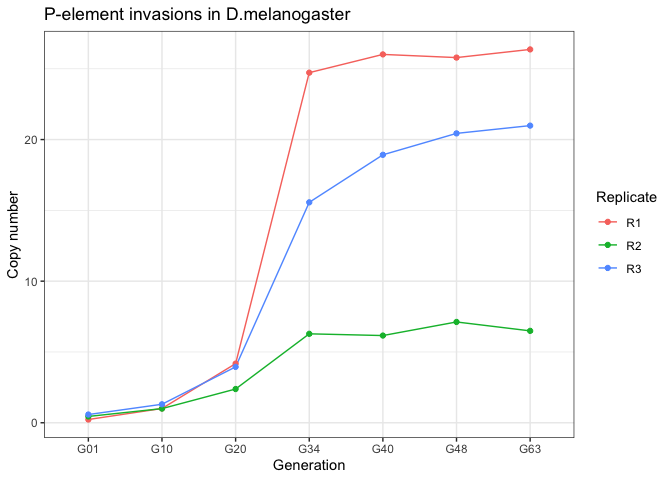
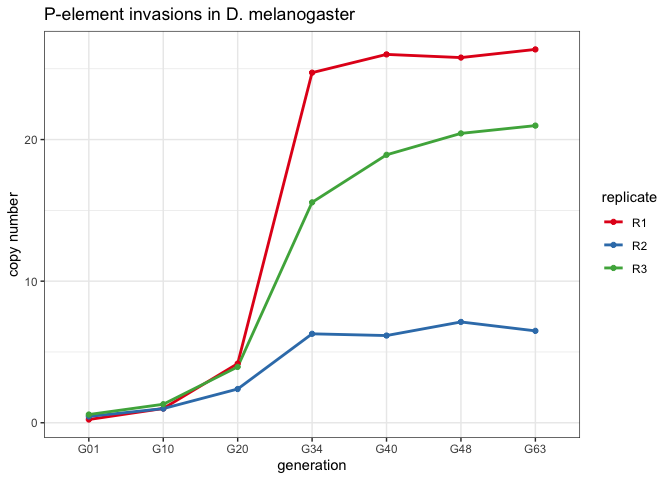
coverage plot added.

diff --git a/dna/D.mel_P-element_invasions_DNA.md b/dna/D.mel_P-element_invasions_DNA.md
@@ -1,7 +1,7 @@
-D.mel P-element invasions
+DNA analysis
 ================
 Matthew Beaumont
-2023-04-14
+2023-06-27
 
 ``` bash
 knitr::opts_chunk$set(echo = TRUE)
@@ -17,51 +17,14 @@ cd /Volumes/Data/Projects/DmelR2_P-ele/fastq/raw
 ls -lh
 ```
 
-    ## total 191486464
-    ## -rw-r--r--@ 1 mbeaumont  staff   1.0G Mar 22 18:06 dmel_naive_CATTTT_1.fq.gz
-    ## -rw-r--r--  1 mbeaumont  staff   1.2G Mar 22 18:08 dmel_naive_CATTTT_2.fq.gz
-    ## -rw-r--r--  1 mbeaumont  staff   2.2G Mar 22 18:08 mel_R1G01_CGATGT_1.fq.gz
-    ## -rw-r--r--  1 mbeaumont  staff   2.1G Mar 22 18:06 mel_R1G01_CGATGT_2.fq.gz
-    ## -rw-r--r--  1 mbeaumont  staff   2.2G Mar 22 17:59 mel_R1G10_ACAGTG_1.fq.gz
-    ## -rw-r--r--  1 mbeaumont  staff   2.2G Mar 22 18:03 mel_R1G10_ACAGTG_2.fq.gz
-    ## -rw-r--r--  1 mbeaumont  staff   2.5G Mar 22 18:05 mel_R1G20_ACTTGA_1.fq.gz
-    ## -rw-r--r--  1 mbeaumont  staff   2.4G Mar 22 18:07 mel_R1G20_ACTTGA_2.fq.gz
-    ## -rw-r--r--  1 mbeaumont  staff   1.8G Mar 22 17:58 mel_R1G34_GTAGAG_1.fq.gz
-    ## -rw-r--r--  1 mbeaumont  staff   1.7G Mar 22 18:03 mel_R1G34_GTAGAG_2.fq.gz
-    ## -rw-r--r--  1 mbeaumont  staff   2.0G Mar 22 18:04 mel_R1G40_GTAGAG_1.fq.gz
-    ## -rw-r--r--  1 mbeaumont  staff   2.1G Mar 22 18:01 mel_R1G40_GTAGAG_2.fq.gz
-    ## -rw-r--r--  1 mbeaumont  staff   1.9G Mar 22 18:04 mel_R1G48_GTAGAG_1.fq.gz
-    ## -rw-r--r--  1 mbeaumont  staff   1.9G Mar 22 18:00 mel_R1G48_GTAGAG_2.fq.gz
-    ## -rw-r--r--  1 mbeaumont  staff   2.0G Mar 22 17:58 mel_R1G63_ATCACG_1.fq.gz
-    ## -rw-r--r--  1 mbeaumont  staff   2.1G Mar 22 18:01 mel_R1G63_ATCACG_2.fq.gz
-    ## -rw-r--r--  1 mbeaumont  staff   2.4G Mar 22 18:02 mel_R2G01_TTAGGC_1.fq.gz
-    ## -rw-r--r--  1 mbeaumont  staff   2.3G Mar 22 17:59 mel_R2G01_TTAGGC_2.fq.gz
-    ## -rw-r--r--  1 mbeaumont  staff   2.2G Mar 22 18:05 mel_R2G10_GCCAAT_1.fq.gz
-    ## -rw-r--r--  1 mbeaumont  staff   2.1G Mar 22 18:07 mel_R2G10_GCCAAT_2.fq.gz
-    ## -rw-r--r--  1 mbeaumont  staff   2.3G Mar 22 18:07 mel_R2G20_GGCTAC_1.fq.gz
-    ## -rw-r--r--  1 mbeaumont  staff   2.3G Mar 22 18:05 mel_R2G20_GGCTAC_2.fq.gz
-    ## -rw-r--r--  1 mbeaumont  staff   1.6G Mar 22 17:59 mel_R2G34_GGTAGC_1.fq.gz
-    ## -rw-r--r--  1 mbeaumont  staff   1.5G Mar 22 18:02 mel_R2G34_GGTAGC_2.fq.gz
-    ## -rw-r--r--  1 mbeaumont  staff   2.0G Mar 22 18:04 mel_R2G40_GGTAGC_1.fq.gz
-    ## -rw-r--r--  1 mbeaumont  staff   2.1G Mar 22 18:00 mel_R2G40_GGTAGC_2.fq.gz
-    ## -rw-r--r--  1 mbeaumont  staff   1.9G Mar 22 18:04 mel_R2G48_GGTAGC_1.fq.gz
-    ## -rw-r--r--  1 mbeaumont  staff   1.9G Mar 22 18:01 mel_R2G48_GGTAGC_2.fq.gz
-    ## -rw-r--r--  1 mbeaumont  staff   2.5G Mar 22 18:06 mel_R2G63_CGATGT_1.fq.gz
-    ## -rw-r--r--  1 mbeaumont  staff   2.6G Mar 22 18:07 mel_R2G63_CGATGT_2.fq.gz
-    ## -rw-r--r--  1 mbeaumont  staff   2.3G Mar 22 18:02 mel_R3G01_TGACCA_1.fq.gz
-    ## -rw-r--r--  1 mbeaumont  staff   2.2G Mar 22 17:57 mel_R3G01_TGACCA_2.fq.gz
-    ## -rw-r--r--  1 mbeaumont  staff   2.5G Mar 22 18:05 mel_R3G10_CAGATC_1.fq.gz
-    ## -rw-r--r--  1 mbeaumont  staff   2.4G Mar 22 18:00 mel_R3G10_CAGATC_2.fq.gz
-    ## -rw-r--r--  1 mbeaumont  staff   2.0G Mar 22 18:08 mel_R3G20_CTTGTA_1.fq.gz
-    ## -rw-r--r--  1 mbeaumont  staff   1.9G Mar 22 18:06 mel_R3G20_CTTGTA_2.fq.gz
-    ## -rw-r--r--  1 mbeaumont  staff   1.9G Mar 22 18:00 mel_R3G34_ATGAGC_1.fq.gz
-    ## -rw-r--r--  1 mbeaumont  staff   1.8G Mar 22 18:03 mel_R3G34_ATGAGC_2.fq.gz
-    ## -rw-r--r--  1 mbeaumont  staff   2.8G Mar 22 18:02 mel_R3G40_ATGAGC_1.fq.gz
-    ## -rw-r--r--  1 mbeaumont  staff   2.9G Mar 22 17:58 mel_R3G40_ATGAGC_2.fq.gz
-    ## -rw-r--r--  1 mbeaumont  staff   1.8G Mar 22 18:02 mel_R3G48_ATGAGC_1.fq.gz
-    ## -rw-r--r--  1 mbeaumont  staff   1.8G Mar 22 17:58 mel_R3G48_ATGAGC_2.fq.gz
-    ## -rw-r--r--  1 mbeaumont  staff   2.2G Mar 22 18:03 mel_R3G63_TTAGGC_1.fq.gz
-    ## -rw-r--r--  1 mbeaumont  staff   1.9G Mar 22 17:59 mel_R3G63_TTAGGC_2.fq.gz
+    ## bash: line 0: cd: /Volumes/Data/Projects/DmelR2_P-ele/fastq/raw: No such file or directory
+    ## total 96
+    ## -rw-r--r--  1 mbeaumont  staff   6.0K Jun 27 11:34 D.mel_P-element_invasions_DNA.Rmd
+    ## -rw-r--r--  1 mbeaumont  staff    27K Apr 14 11:10 D.mel_P-element_invasions_DNA.md
+    ## drwxr-xr-x  4 mbeaumont  staff   136B Apr 13 15:00 D.mel_P-element_invasions_DNA_files
+    ## drwxr-xr-x  6 mbeaumont  staff   204B Jun 27 11:28 figs
+    ## -rw-r--r--  1 mbeaumont  staff   336B Apr 13 15:11 mel_pcopies_aligned.txt
+    ## drwxr-xr-x  9 mbeaumont  staff   306B Jun  5 10:41 validations
 
 ``` bash
 nohup bash scripts/trim.sh > trim.log &
@@ -85,51 +48,14 @@ cd /Volumes/Data/Projects/DmelR2_P-ele/fastq/trimmed
 ls -lh
 ```
 
-    ## total 132388592
-    ## -rw-r--r--  1 mbeaumont  staff   837M Mar 27 15:33 dmel_naive_CATTTT_1_trimmed.fq.gz
-    ## -rw-r--r--  1 mbeaumont  staff   823M Mar 27 15:52 dmel_naive_CATTTT_2_trimmed.fq.gz
-    ## -rw-r--r--  1 mbeaumont  staff   1.4G Mar 27 16:29 mel_R1G01_CGATGT_1_trimmed.fq.gz
-    ## -rw-r--r--  1 mbeaumont  staff   1.4G Mar 27 17:02 mel_R1G01_CGATGT_2_trimmed.fq.gz
-    ## -rw-r--r--  1 mbeaumont  staff   1.5G Mar 27 17:40 mel_R1G10_ACAGTG_1_trimmed.fq.gz
-    ## -rw-r--r--  1 mbeaumont  staff   1.4G Mar 27 18:14 mel_R1G10_ACAGTG_2_trimmed.fq.gz
-    ## -rw-r--r--  1 mbeaumont  staff   1.7G Mar 27 18:56 mel_R1G20_ACTTGA_1_trimmed.fq.gz
-    ## -rw-r--r--  1 mbeaumont  staff   1.6G Mar 27 19:34 mel_R1G20_ACTTGA_2_trimmed.fq.gz
-    ## -rw-r--r--  1 mbeaumont  staff   1.2G Mar 27 20:02 mel_R1G34_GTAGAG_1_trimmed.fq.gz
-    ## -rw-r--r--  1 mbeaumont  staff   1.2G Mar 27 20:30 mel_R1G34_GTAGAG_2_trimmed.fq.gz
-    ## -rw-r--r--  1 mbeaumont  staff   1.4G Mar 27 21:02 mel_R1G40_GTAGAG_1_trimmed.fq.gz
-    ## -rw-r--r--  1 mbeaumont  staff   1.4G Mar 27 21:35 mel_R1G40_GTAGAG_2_trimmed.fq.gz
-    ## -rw-r--r--  1 mbeaumont  staff   1.3G Mar 27 22:04 mel_R1G48_GTAGAG_1_trimmed.fq.gz
-    ## -rw-r--r--  1 mbeaumont  staff   1.3G Mar 27 22:32 mel_R1G48_GTAGAG_2_trimmed.fq.gz
-    ## -rw-r--r--  1 mbeaumont  staff   1.6G Mar 27 23:17 mel_R1G63_ATCACG_1_trimmed.fq.gz
-    ## -rw-r--r--  1 mbeaumont  staff   1.6G Mar 28 00:10 mel_R1G63_ATCACG_2_trimmed.fq.gz
-    ## -rw-r--r--  1 mbeaumont  staff   1.6G Mar 28 00:48 mel_R2G01_TTAGGC_1_trimmed.fq.gz
-    ## -rw-r--r--  1 mbeaumont  staff   1.5G Mar 28 01:22 mel_R2G01_TTAGGC_2_trimmed.fq.gz
-    ## -rw-r--r--  1 mbeaumont  staff   1.5G Mar 28 01:58 mel_R2G10_GCCAAT_1_trimmed.fq.gz
-    ## -rw-r--r--  1 mbeaumont  staff   1.4G Mar 28 02:29 mel_R2G10_GCCAAT_2_trimmed.fq.gz
-    ## -rw-r--r--  1 mbeaumont  staff   1.5G Mar 28 03:06 mel_R2G20_GGCTAC_1_trimmed.fq.gz
-    ## -rw-r--r--  1 mbeaumont  staff   1.5G Mar 28 03:40 mel_R2G20_GGCTAC_2_trimmed.fq.gz
-    ## -rw-r--r--  1 mbeaumont  staff   1.0G Mar 28 04:04 mel_R2G34_GGTAGC_1_trimmed.fq.gz
-    ## -rw-r--r--  1 mbeaumont  staff   1.0G Mar 28 04:26 mel_R2G34_GGTAGC_2_trimmed.fq.gz
-    ## -rw-r--r--  1 mbeaumont  staff   1.3G Mar 28 04:55 mel_R2G40_GGTAGC_1_trimmed.fq.gz
-    ## -rw-r--r--  1 mbeaumont  staff   1.4G Mar 28 05:26 mel_R2G40_GGTAGC_2_trimmed.fq.gz
-    ## -rw-r--r--  1 mbeaumont  staff   1.3G Mar 28 05:52 mel_R2G48_GGTAGC_1_trimmed.fq.gz
-    ## -rw-r--r--  1 mbeaumont  staff   1.3G Mar 28 06:19 mel_R2G48_GGTAGC_2_trimmed.fq.gz
-    ## -rw-r--r--  1 mbeaumont  staff   2.0G Mar 28 07:11 mel_R2G63_CGATGT_1_trimmed.fq.gz
-    ## -rw-r--r--  1 mbeaumont  staff   2.0G Mar 28 08:09 mel_R2G63_CGATGT_2_trimmed.fq.gz
-    ## -rw-r--r--  1 mbeaumont  staff   1.5G Mar 28 08:46 mel_R3G01_TGACCA_1_trimmed.fq.gz
-    ## -rw-r--r--  1 mbeaumont  staff   1.5G Mar 28 09:19 mel_R3G01_TGACCA_2_trimmed.fq.gz
-    ## -rw-r--r--  1 mbeaumont  staff   1.6G Mar 28 09:58 mel_R3G10_CAGATC_1_trimmed.fq.gz
-    ## -rw-r--r--  1 mbeaumont  staff   1.6G Mar 28 10:33 mel_R3G10_CAGATC_2_trimmed.fq.gz
-    ## -rw-r--r--  1 mbeaumont  staff   1.3G Mar 28 11:05 mel_R3G20_CTTGTA_1_trimmed.fq.gz
-    ## -rw-r--r--  1 mbeaumont  staff   1.3G Mar 28 11:35 mel_R3G20_CTTGTA_2_trimmed.fq.gz
-    ## -rw-r--r--  1 mbeaumont  staff   1.2G Mar 28 12:04 mel_R3G34_ATGAGC_1_trimmed.fq.gz
-    ## -rw-r--r--  1 mbeaumont  staff   1.2G Mar 28 12:31 mel_R3G34_ATGAGC_2_trimmed.fq.gz
-    ## -rw-r--r--  1 mbeaumont  staff   1.9G Mar 28 13:12 mel_R3G40_ATGAGC_1_trimmed.fq.gz
-    ## -rw-r--r--  1 mbeaumont  staff   2.0G Mar 28 13:56 mel_R3G40_ATGAGC_2_trimmed.fq.gz
-    ## -rw-r--r--  1 mbeaumont  staff   1.2G Mar 28 14:21 mel_R3G48_ATGAGC_1_trimmed.fq.gz
-    ## -rw-r--r--  1 mbeaumont  staff   1.2G Mar 28 14:46 mel_R3G48_ATGAGC_2_trimmed.fq.gz
-    ## -rw-r--r--  1 mbeaumont  staff   1.7G Mar 28 15:31 mel_R3G63_TTAGGC_1_trimmed.fq.gz
-    ## -rw-r--r--  1 mbeaumont  staff   1.8G Mar 28 16:27 mel_R3G63_TTAGGC_2_trimmed.fq.gz
+    ## bash: line 0: cd: /Volumes/Data/Projects/DmelR2_P-ele/fastq/trimmed: No such file or directory
+    ## total 96
+    ## -rw-r--r--  1 mbeaumont  staff   6.0K Jun 27 11:34 D.mel_P-element_invasions_DNA.Rmd
+    ## -rw-r--r--  1 mbeaumont  staff    27K Apr 14 11:10 D.mel_P-element_invasions_DNA.md
+    ## drwxr-xr-x  4 mbeaumont  staff   136B Apr 13 15:00 D.mel_P-element_invasions_DNA_files
+    ## drwxr-xr-x  6 mbeaumont  staff   204B Jun 27 11:28 figs
+    ## -rw-r--r--  1 mbeaumont  staff   336B Apr 13 15:11 mel_pcopies_aligned.txt
+    ## drwxr-xr-x  9 mbeaumont  staff   306B Jun  5 10:41 validations
 
 # TE Mapping
 
@@ -401,7 +327,7 @@ ls -lh *fq.gz.*
     ## -rw-r--r--  1 mbeaumont  staff    64K Mar 30 12:42 mel_R2G40_GGTAGC_1_trimmed.fq.gz.PPI251.pdf
     ## -rw-r--r--  1 mbeaumont  staff   386K Mar 30 12:42 mel_R2G40_GGTAGC_1_trimmed.fq.gz.PPI251.raw
     ## -rw-r--r--  1 mbeaumont  staff   427K Mar 30 12:47 mel_R2G48_GGTAGC_1_trimmed.fq.gz.PPI251
-    ## -rw-r--r--  1 mbeaumont  staff    63K Mar 30 12:47 mel_R2G48_GGTAGC_1_trimmed.fq.gz.PPI251.pdf
+    ## -rw-r--r--@ 1 mbeaumont  staff    63K Mar 30 12:47 mel_R2G48_GGTAGC_1_trimmed.fq.gz.PPI251.pdf
     ## -rw-r--r--  1 mbeaumont  staff   386K Mar 30 12:47 mel_R2G48_GGTAGC_1_trimmed.fq.gz.PPI251.raw
     ## -rw-r--r--  1 mbeaumont  staff   425K Mar 30 12:54 mel_R2G63_CGATGT_1_trimmed.fq.gz.PPI251
     ## -rw-r--r--@ 1 mbeaumont  staff    73K Mar 30 12:54 mel_R2G63_CGATGT_1_trimmed.fq.gz.PPI251.pdf
@@ -451,20 +377,23 @@ ls -lh *pcopies*
 
 # Visualisation
 
+## P-element copy number
+
 The copy number data was then visualised using ggplot2.
 
 ``` r
 library (ggplot2)
 theme_set(theme_bw())
-
+tresrep<-c("#e41a1c", "#377eb8", "#4daf4a")
+  
 d = read.table("mel_pcopies_aligned.txt")
 
-names(d)<-c ("Replicate", "Generation", "Copy number")
+names(d)<-c ("replicate", "generation", "copy number")
 
 print(d)
 ```
 
-    ##    Replicate Generation Copy number
+    ##    replicate generation copy number
     ## 1         R1        G01    0.229964
     ## 2         R1        G10    1.007938
     ## 3         R1        G20    4.177100
@@ -488,12 +417,32 @@ print(d)
     ## 21        R3        G63   20.984870
 
 ``` r
-ggplot(d, aes(x = Generation, y = `Copy number`, group= Replicate)) + 
-  geom_line(aes(color=Replicate)) +
-  geom_point(aes(color=Replicate)) +
-  ggtitle("P-element invasions in D.melanogaster")
+ggplot(d, aes(x = generation, y = `copy number`, group= replicate)) + 
+  geom_line(aes(color=replicate),linewidth=1) +
+  geom_point(aes(color=replicate)) +
+  ggtitle("P-element invasions in D. melanogaster") +
+  scale_colour_manual(values=tresrep)
 ```
 
 ![](D.mel_P-element_invasions_DNA_files/figure-gfm/unnamed-chunk-14-1.png)<!-- -->
+
+``` r
+ggsave("figs/pele_invasions_dmel.png", width = 8, height = 5, dpi = 600)
+
+knitr::include_graphics("figs/pele_invasions_dmel.png")
+```
+
+<img src="figs/pele_invasions_dmel.png" width="4800" />
+
+## DeviaTE
+
+We also generated DeviaTE plots for each replicate for each measured
+generation time-point.
+
+``` r
+knitr::include_graphics("figs/pele_coverage.png")
+```
+
+<img src="figs/pele_coverage.png" width="6641" />
 
 END.
